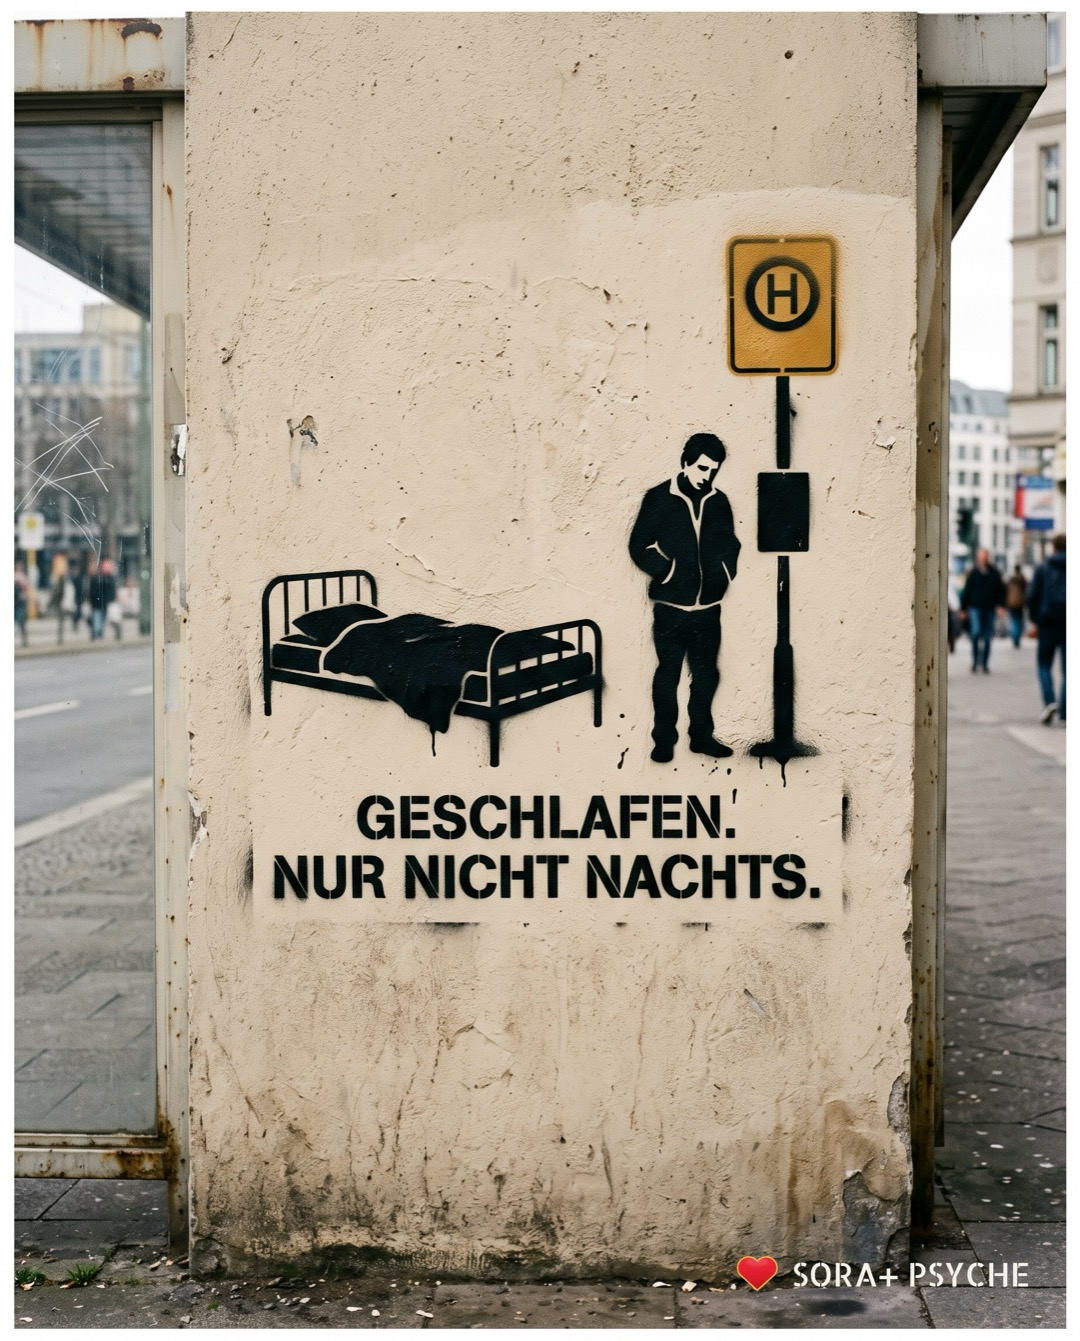
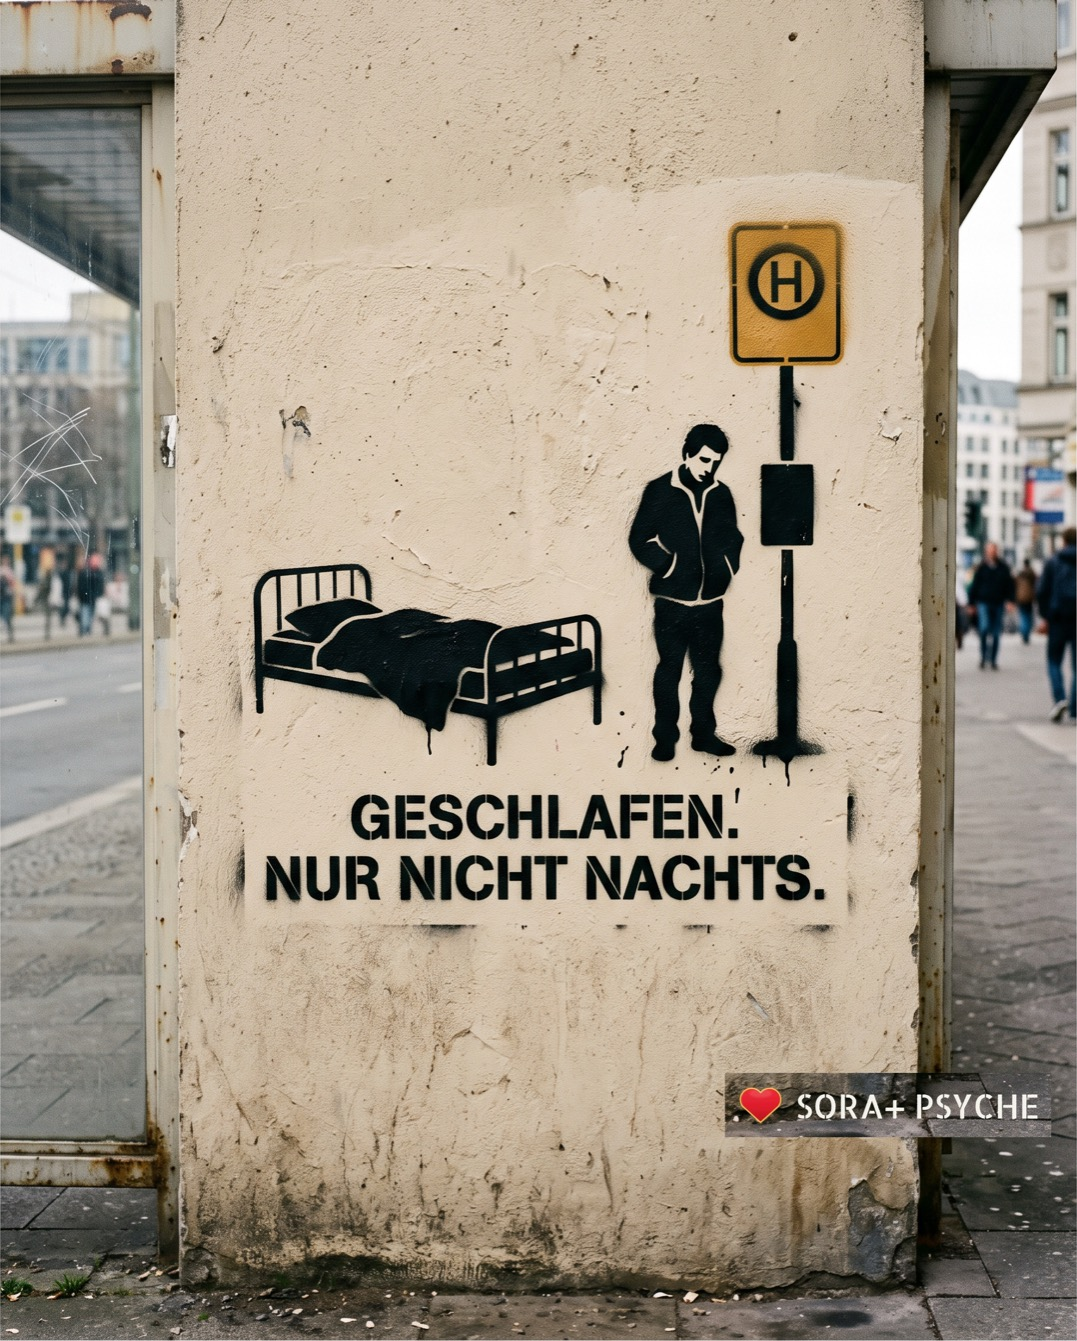
Wandsatz-Bilder W-058/W-120 ohne weissen Rahmen (03, 23.09.)

diff --git a/wandsaetze.html b/wandsaetze.html
@@ -1193,7 +1193,7 @@
       </div>
     </li>
     <li class="ws-item" id="W-058">
-      <img src="/assets/img/wandsaetze/W-058.jpg" alt="Wand mit schwarzem Stencil, Signatur SORA+ PSYCHE: „GESCHLAFEN. NUR NICHT NACHTS.“" width="1080" height="1341" loading="lazy" decoding="async">
+      <img src="/assets/img/wandsaetze/W-058.jpg" alt="Wand mit schwarzem Stencil, Signatur SORA+ PSYCHE: „GESCHLAFEN. NUR NICHT NACHTS.“" width="1077" height="1341" loading="lazy" decoding="async">
       <div class="ws-body">
         <p class="ws-phrase">GESCHLAFEN. NUR NICHT NACHTS.</p>
         <p class="ws-meta">W-058 · Schlaf / Nacht (сон, который не восстанавливает)</p>
@@ -1592,7 +1592,7 @@
       </div>
     </li>
     <li class="ws-item" id="W-120">
-      <img src="/assets/img/wandsaetze/W-120.jpg" alt="Wand mit schwarzem Stencil, Signatur SORA+ PSYCHE: „ICH FRAGTE. / ES BLIEB STILL.“" width="1080" height="1341" loading="lazy" decoding="async">
+      <img src="/assets/img/wandsaetze/W-120.jpg" alt="Wand mit schwarzem Stencil, Signatur SORA+ PSYCHE: „ICH FRAGTE. / ES BLIEB STILL.“" width="1071" height="1341" loading="lazy" decoding="async">
       <div class="ws-body">
         <p class="ws-phrase">ICH FRAGTE. / ES BLIEB STILL.</p>
         <p class="ws-meta">W-120 · Verbunden und allein (рядом, но не вместе)</p>
